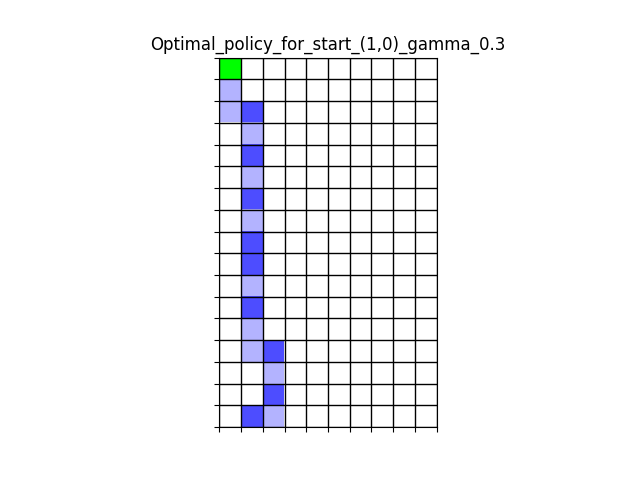
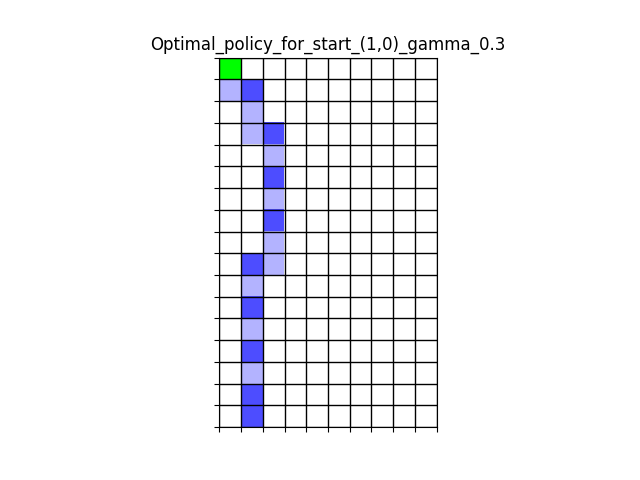
added for plotting

Changed region(s): [[0.3438, 0.1562, 0.4688, 0.5938], [0.375, 0.6875, 0.4688, 0.9062]]

diff --git a/A3/run.py b/A3/run.py
@@ -11,12 +11,17 @@ for episodes in range(1,100):
     g_values = learn.calculate_g(s_a_pairs)
     q_table = learn.update_q_table(q_table, g_values)        
 '''
-
+def calc_mean_path(episode, episode_lengths, path_lengths):
+    sum = 0
+    for key in path_lengths:
+        sum = sum  + path_lengths[key]
+    episode_lengths[episode] = sum/len(path_lengths)
+    return episode_lengths
 
 
 def run(run_name, target, obstacles, gamma):
 
-    starting_pos_lengths={}
+    episode_lengths={}
     
     q_table = learn.intialize_q_table()
 
@@ -24,28 +29,33 @@ def run(run_name, target, obstacles, gamma):
     plt.ion()
     fig, ax = plt.subplots()
 
-    for episodes in range(1,50000):
+    for episodes in range(1,50001):
         s_a_pairs, route = game.episode(q_table, gamma, target, obstacles, explore=False)
         print(f"Episode: {episodes}, current path length: {len(route)}")
         g_values = learn.calculate_g(s_a_pairs)
         q_table = learn.update_q_table(q_table, g_values)
-        if episodes in [100, 1000, 2000, 3000, 4000, 5000, 6000, 7000, 8000, 9000, 10000, 20000, 30000, 40000]:
-            s_a_pairs, route = game.episode(q_table, 0, target, obstacles, explore=False)
-            vis.show_grid(ax, obstacles,target, 17, 10, route, f"Episode: {episodes}")
-            plt.pause(0.1)
+        if (episodes % 1000 == 0) or (episodes == 1):
+            if episodes != 1:
+                s_a_pairs, route = game.episode(q_table, 0, target, obstacles, explore=False)
+                vis.show_grid(ax, obstacles,target, 17, 10, route, f"Episode: {episodes}")
+                plt.pause(0.1)
 
+            for i in range(0,10):
+                starting_pos_lengths={}
+                s_a_pairs, route = game.episode(q_table, 0, target, obstacles, explore=False, starting_pos=(i,0))
+                starting_pos_lengths[(i,0)] = len(route)
+            episode_lengths = calc_mean_path(episodes, episode_lengths, starting_pos_lengths)
 
 
 
     for i in range(0,10):
         s_a_pairs, route = game.episode(q_table, 0, target, obstacles, explore=False, starting_pos=(i,0))
         vis.show_grid(ax, obstacles,target, 17, 10, route, f"Optimal_policy_for_start_({i},0)_gamma_{gamma}", True, run_name)
-        starting_pos_lengths[(i,0)] = len(route)
 
     plt.ioff()
     plt.close(fig)
     
-    return starting_pos_lengths
+    return episode_lengths
 
 
 

diff --git a/A3/main.py b/A3/main.py
@@ -1,13 +1,6 @@
 from run import run
+from visualize_grid import plot_path_length
 import time
-
-
-
-def calc_mean_path(layout, results, path_lengths):
-    sum = 0
-    for key in path_lengths:
-        sum = sum  + path_lengths[key]
-    results[layout]["mean_path"] = sum/len(path_lengths)
 
 results = {
     "layout_1": {},
@@ -28,30 +21,38 @@ obstacles_2 = ()
 
 
 target_3 = (9,12)
+'''
 obstacles_3 = (
     (6, 11), (7, 11), (8, 11), (9,11),
-    (4,15), (5,15), (6,15),
-    (6,11), (6,12), (6,13), (6,14)
-    
+    (6,11), (6,12), (6,13)
+)
+'''
+
+obstacles_3 = (
+    (5, 6),
+    (5, 5), (6,5), (7, 5), (8, 5), (9, 5),
+    (4, 10), (5, 10), (6, 10), (7, 10), (4, 11), (4,12),
+    (4, 14), (4, 15), (4, 16)
 )
 
 
 start = time.perf_counter()
 starting_pos_lengths_layout1 = run("Layout_1", target_1, obstacles_1, 0.3)
 end = time.perf_counter()
+results["layout_1"]["path_lengths"] = starting_pos_lengths_layout1
 results["layout_1"]["runtime"] = f"{end - start:0.4f}"
-calc_mean_path("layout_1", results, starting_pos_lengths_layout1)
 
 start = time.perf_counter()
 starting_pos_lengths_layout2 = run("Layout_2", target_2, obstacles_2, 0.3)
 end = time.perf_counter()
+results["layout_2"]["path_lengths"] = starting_pos_lengths_layout2
 results["layout_2"]["runtime"] = f"{end - start:0.4f}"
-calc_mean_path("layout_2", results, starting_pos_lengths_layout2)
 
 start = time.perf_counter()
 starting_pos_lengths_layout3 = run("Layout_3", target_3, obstacles_3, 0.3)
 end = time.perf_counter()
+results["layout_3"]["path_lengths"] = starting_pos_lengths_layout3
 results["layout_3"]["runtime"] = f"{end - start:0.4f}"
-calc_mean_path("layout_3", results, starting_pos_lengths_layout3)
 
 print(results)
+plot_path_length(results)

diff --git a/A3/visualize_grid.py b/A3/visualize_grid.py
@@ -6,19 +6,6 @@ import os
 
 cwd = os.getcwd() 
 
-obstacles = (
-    (8, 5), (9, 5),
-    (4, 10), (5, 10), (6, 10), (7, 10), (4, 11),
-    (4, 14), (4, 15), (4, 16)
-)
-
-target = (6, 12)
-
-visited = [(3,0), (3,1), (3,3), (3,6), (3,9), (3,11), (4,12), (6,12)]
-
-path = [(3,0), (3,1), (3,2), (3,3), (3,4), (3,5), (3,6), (3,7), (3,8), (3,9), (3,10), (3,11), (3,12), (4,12), (5,12), (6,12)]
-
-    
 def calculate_path(visited):
     path = []
 
@@ -101,5 +88,22 @@ def show_grid(ax, obstacle_tuples, target, rows, cols, visited, plotname=None, s
         plt.savefig(f'{cwd}/result_graphs/{folder}/{plotname}.png')
     
     
-
-#show_grid(obstacles, target, 17, 10, visited, path)
+def plot_path_length(results):
+    
+    plt.figure(figsize=(8, 5))
+    
+    for layout, data in results.items():
+        path_lenghts = data["path_lengths"]
+        
+        episodes = sorted(path_lengths.keys())
+        lengths = [path_lengths[e] for e in episodes]
+        
+        plt.plot(episodes, lengths, label=layout)
+        
+    plt.xlabel("Episode")
+    plt.ylabel("Path length")
+    plt.title("Path length over training")
+    plt.legend()
+    plt.grid(True)
+    plt.tight_layout()
+    plt.show()

diff --git a/A3/learning.py b/A3/learning.py
@@ -21,7 +21,7 @@ def intialize_q_table():
             
     return q_table
 
-def calculate_g(s_a_pairs):
+def calculate_g_old(s_a_pairs):
     gamma = 0.9
     g_values = {}
     
@@ -36,6 +36,24 @@ def calculate_g(s_a_pairs):
                 g_values[s_a] = g
     # print(g_values)
     return g_values
+
+
+def calculate_g(s_a_pairs):
+    gamma = 0.9
+    g_values = {}
+    g = 0    
+    visited = set()
+
+    for i, s_a in enumerate(reversed(s_a_pairs)):
+        if i != 0:
+            g = gamma*g - 1
+            if s_a not in visited:
+                visited.add(s_a)
+                g_values[s_a] = g
+    return g_values
+
+        
+
 
 
 def update_q_table(q_table, g_values):
